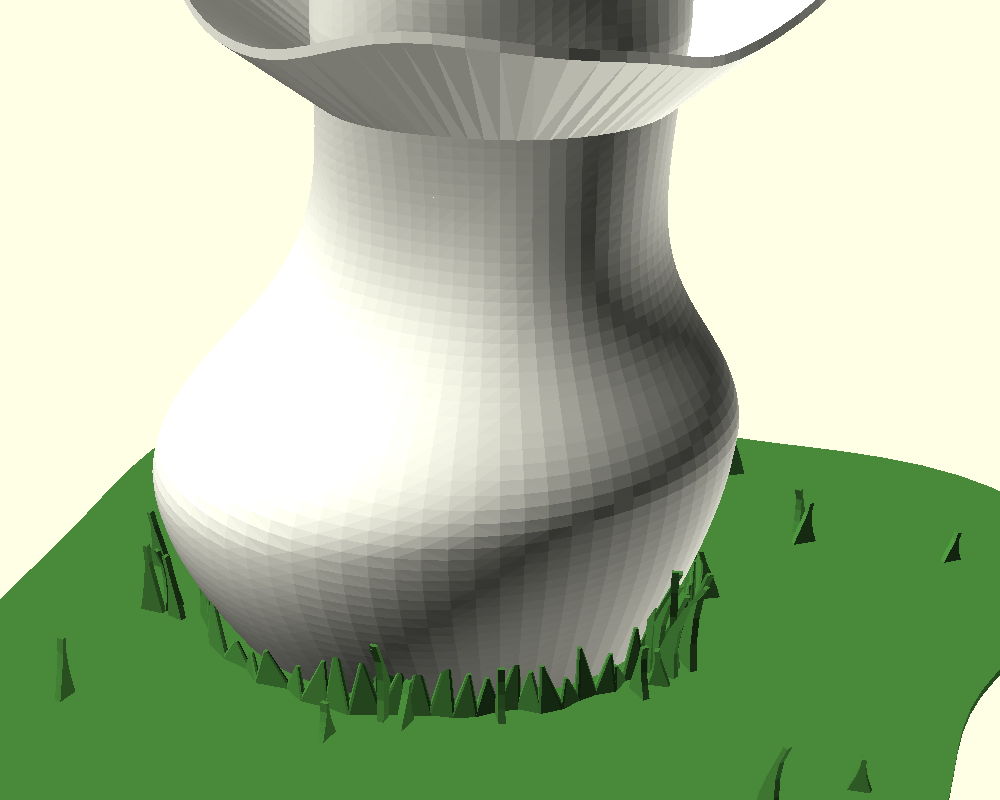
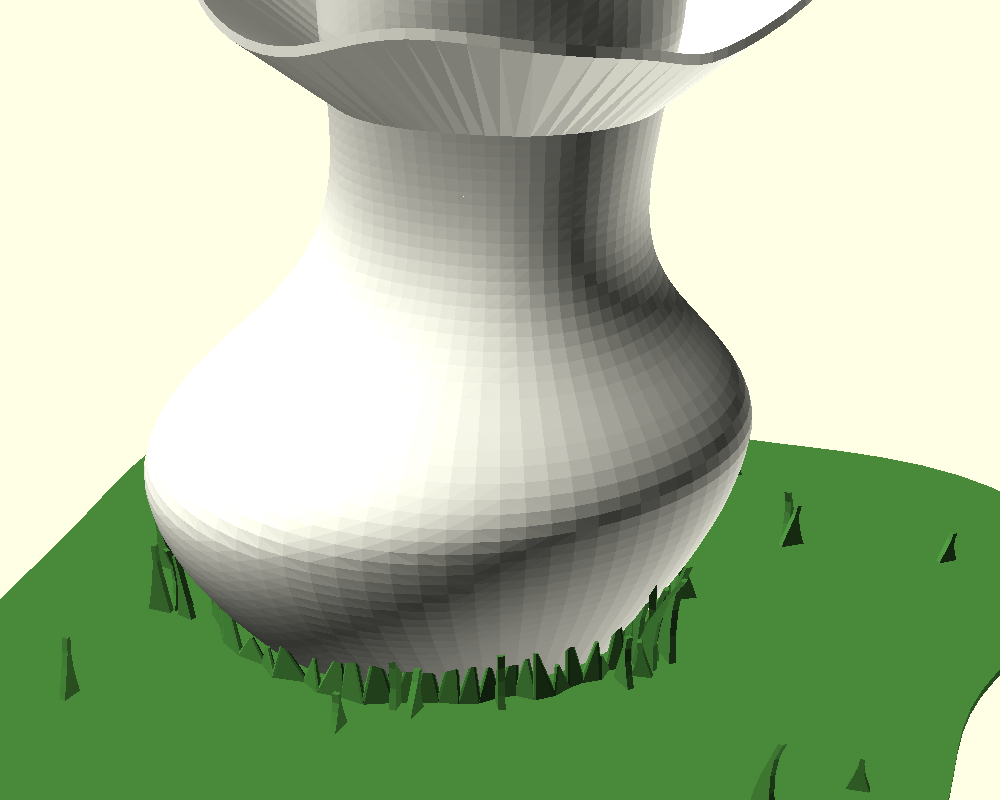
hw: mushroom stem neck slimmer, bulb kept as wide
stem_r 15 -> 9 with bulb_r +6 [19, 36]: neck Ø40 -> Ø36, belly 80 x 75 mm,
bulb underside still under 45°. The sleeve (collar_r) caps the gain at the top.

diff --git a/openscad/README.md b/openscad/README.md
@@ -119,7 +119,7 @@ Parts:
   - lower chamber (48 mm, `chamber_h`), ventilated: **BME280 plugged under the board**, no wire or slide (see *Wiring*); the breakout hangs parallel to the board, sensor towards the disc, 42 mm above the disc; chassis windows at the top of the chamber (`win_h`), so that air flows past the sensor. The top of the cradle goes 30 mm through the disc (Ø37 hole, `disc_bore`) and ends 12 mm below the breakout, with the JST-XH pair;
   - **cut-down v2.2 board** (60 × 39 mm, along the silkscreen dotted lines x = 147 / y = 87, without the 18650 and CR2032 holders): turned 180° (J1 on −X), 2 M2.5 screws (MH5, top MH1), the bottom edge rests on a ledge. The cell arrives on **J13 "RAW IN"** (`+BATT`/`GND`);
   - slide for the TP4056 **charge module**, upright on the side, **micro-USB facing down** between two gills.
-- **Stem** (`stem`) as a **fly-agaric pear** after a sketch: slender, lopsided bulbous base (~76 × 72 mm at the belly; on the table 22 mm from the axis on the short side, 39 mm on the long side), neck Ø41 to 45 at the ring, Ø45 under the sleeve, hollow (Ø29.4) to the top: takes the cell cradle, inserted from the top, sitting 72 mm above the ground. Underneath, a closed **ballast chamber** following the stem shape (2.4 mm wall, `ballast_wall`, bulb included), conical ceiling at 45° up to 70 mm (`ballast_h`): ~146 cm³, i.e. ~690 g of 1 mm steel shot if filled. Filled through a Ø15 hole in the bottom, closed by a **plug** (`plug`, Ø21 × 1.2 mm) glued into a counterbore, flush with the underside. Same spirit as the cap:
+- **Stem** (`stem`) as a **fly-agaric pear** after a sketch: slender, lopsided bulbous base (~80 × 75 mm at the belly; on the table 19 mm from the axis on the short side, 37 mm on the long side), neck Ø36 to 44 below the ring, Ø45 under the sleeve, hollow (Ø29.4) to the top: takes the cell cradle, inserted from the top, sitting 72 mm above the ground. Underneath, a closed **ballast chamber** following the stem shape (2.4 mm wall, `ballast_wall`, bulb included), conical ceiling at 45° up to 70 mm (`ballast_h`): ~146 cm³, i.e. ~690 g of 1 mm steel shot if filled. Filled through a Ø15 hole in the bottom, closed by a **plug** (`plug`, Ø21 × 1.2 mm) glued into a counterbore, flush with the underside. Same spirit as the cap:
   - lobed shaft (`stem_amp`, lobes twisting along the shaft, `stem_twist`); the deformation only adds material, the wall around the cell never gets thinner, and it fades out under the sleeve;
   - asymmetric bulbous base (`bulb_r`, `bulb_z`, `bulb_up`, `bulb_dn`, `foot_dir`): belly low and wide on the long side, high and tight on the short side (`bulb_z` per side), underside rounded at 44° at most;
   - **cup** ring under the cap (`ring_z`, `ring_ext`, `ring_rise`), raised wavy edge (`ring_amp`), 45° at most: no support. The waves are phased (`ring_rot`) so that the cup dips under the USB socket: its edge stays 2 mm short of the window under the plug (checked by an `assert`), the cable plugs in from below.
